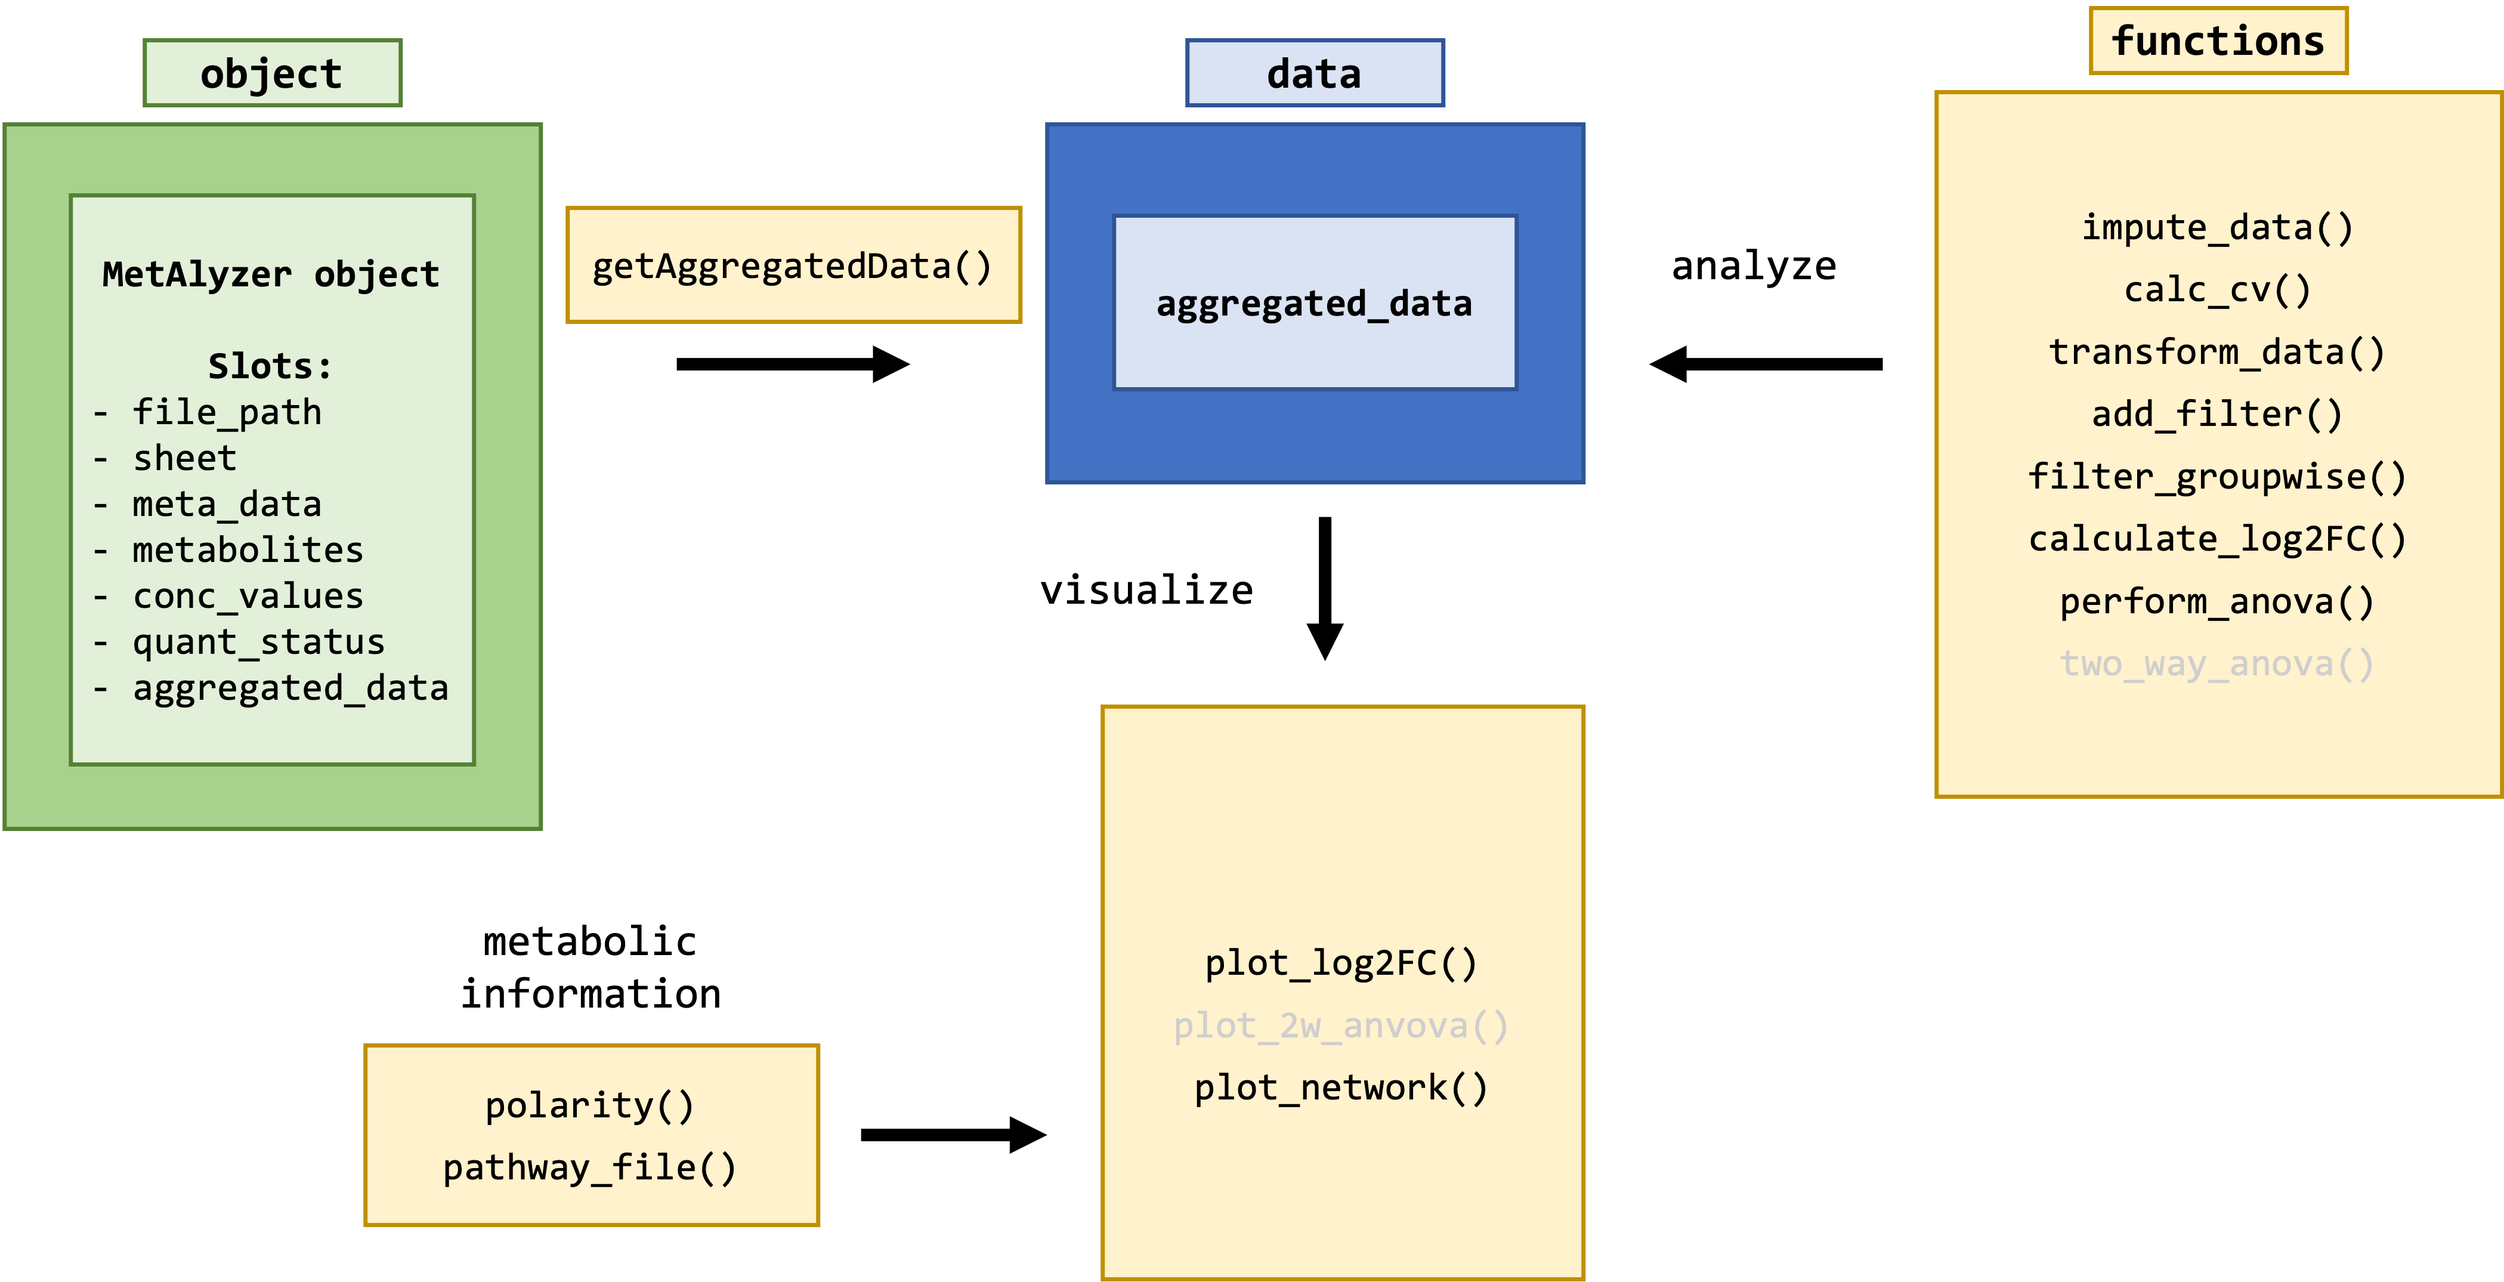
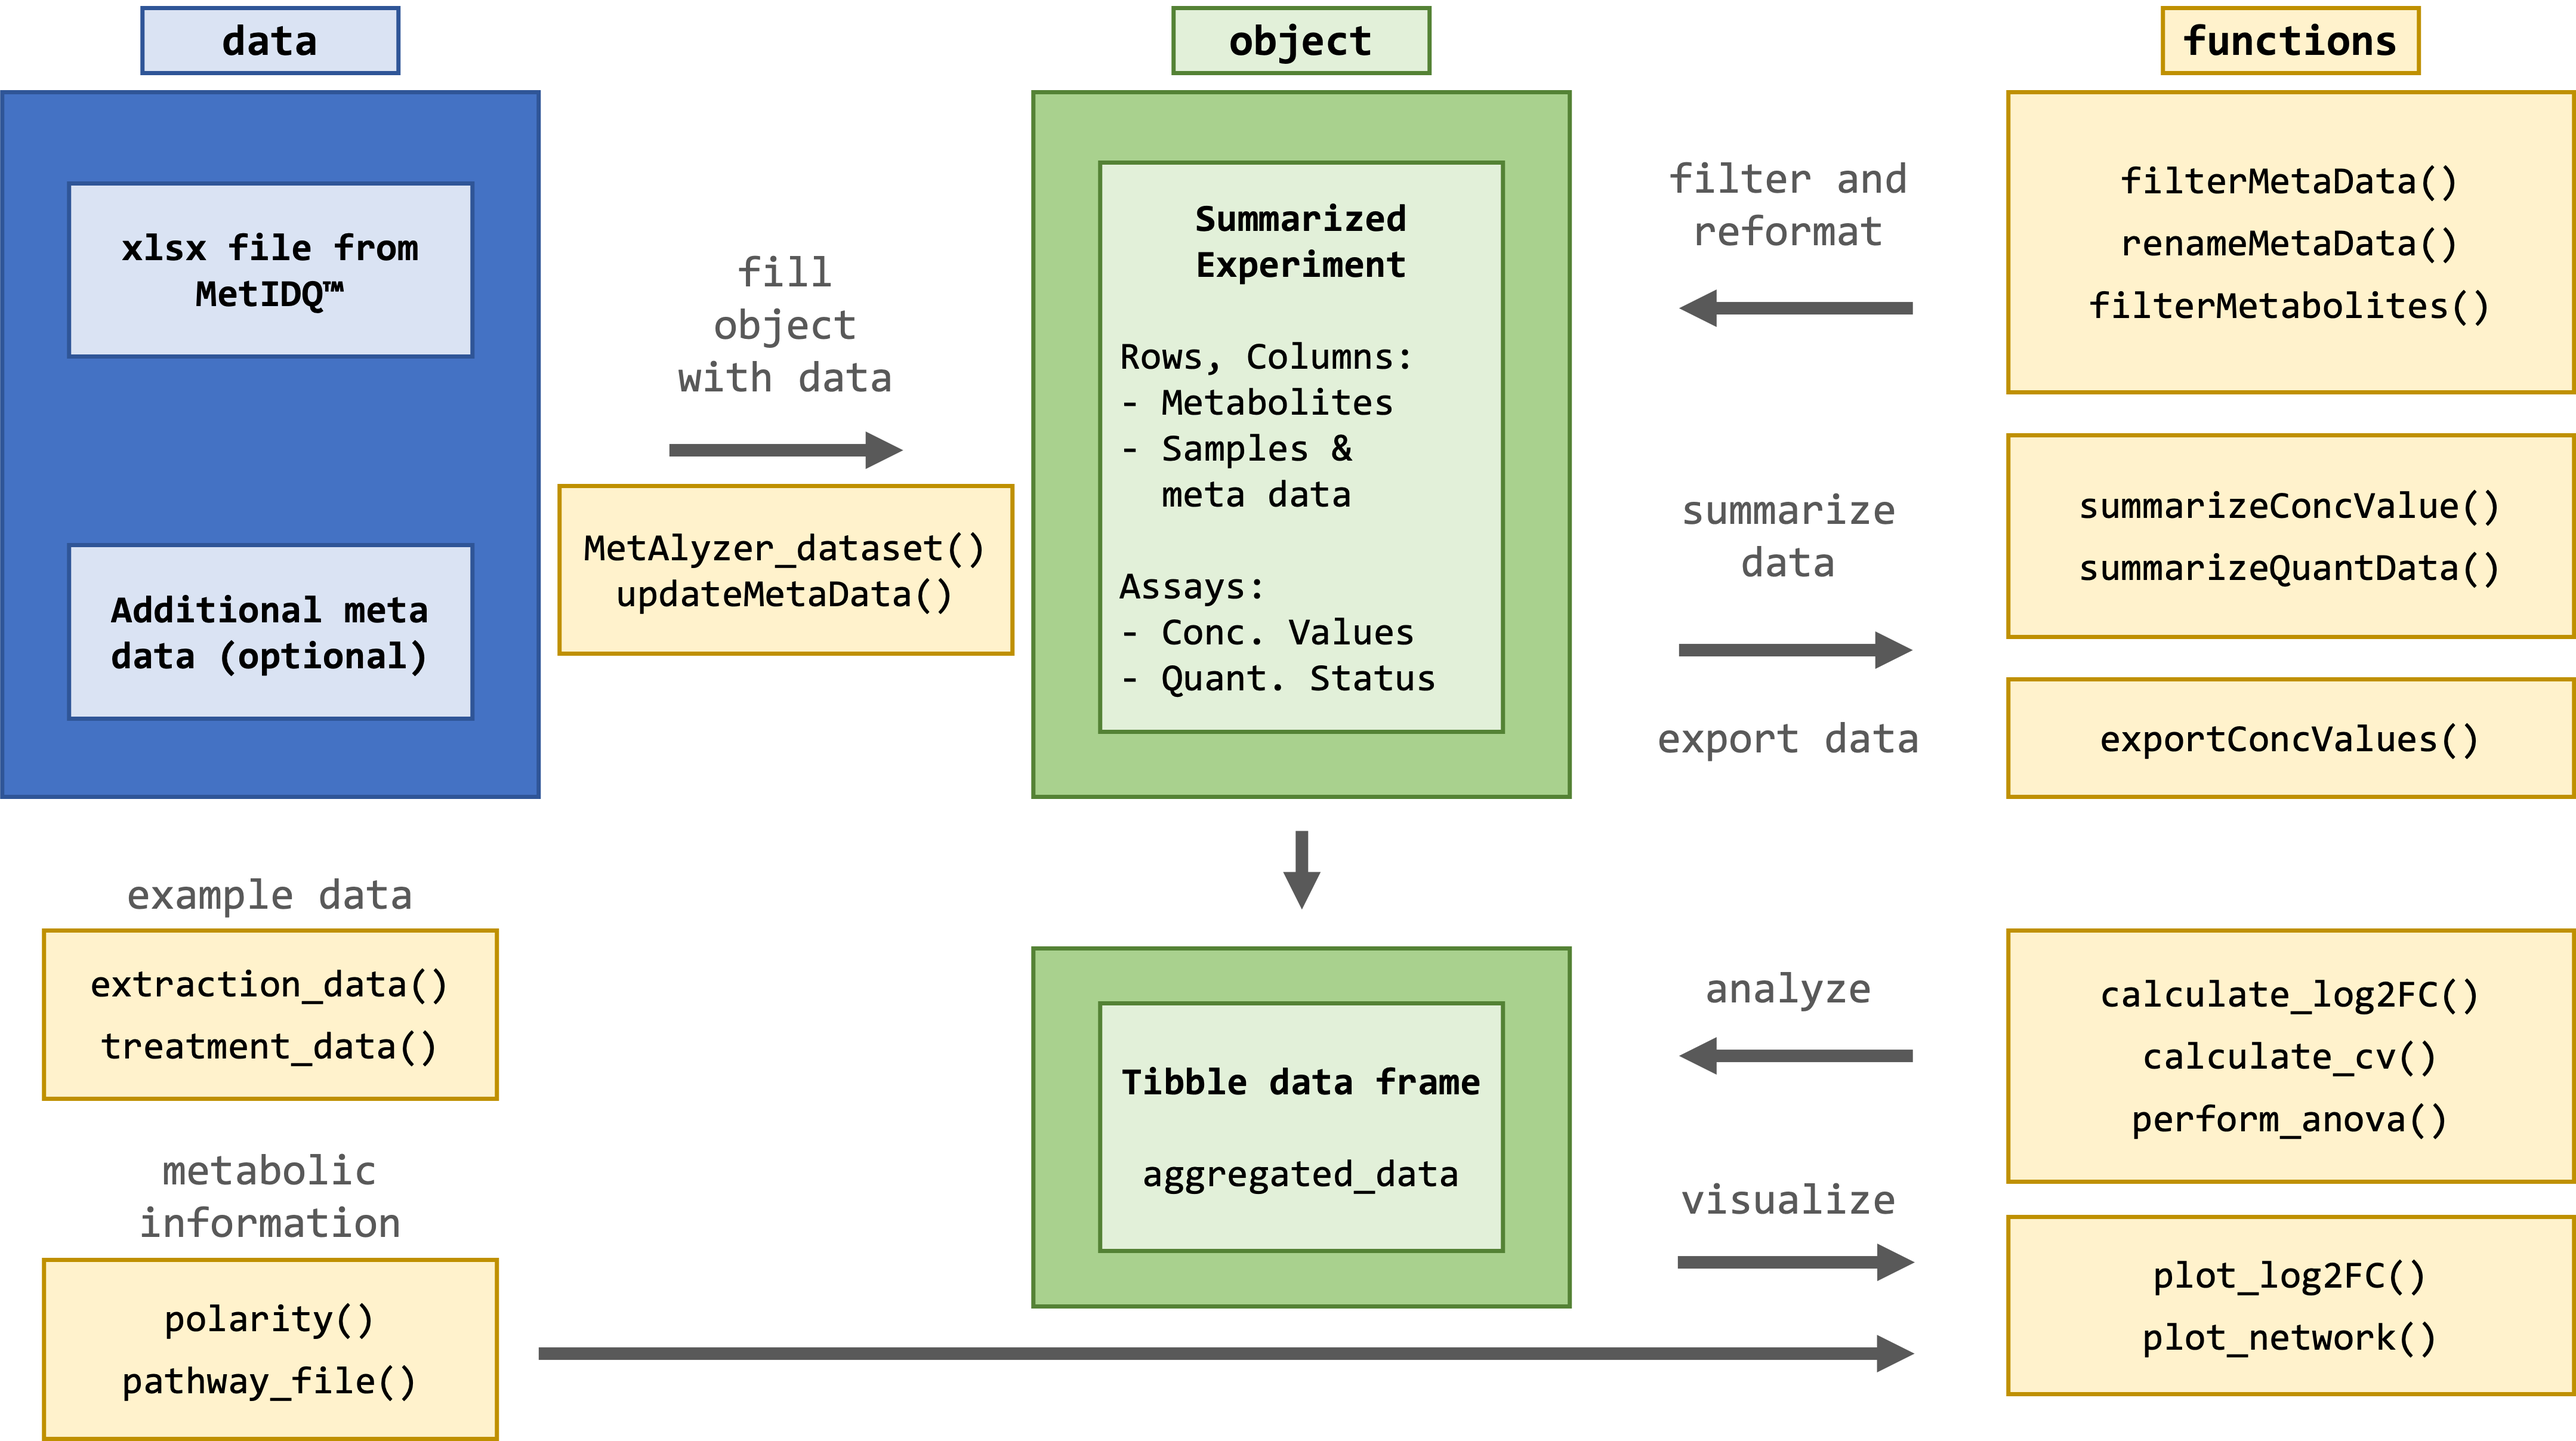
Update class overview for SE

diff --git a/README.md b/README.md
@@ -29,76 +29,69 @@ install_github("nilsmechtel/MetAlyzer")
 
 The package takes metabolomic measurements and the quantification status (e.g. "Valid", "LOQ", "LOD") as ".xlsx" files generated from the MetIDQ&trade; software. Additionally, meta data for each sample can be provided for further analysis.
 
-![MetAlyzer](vignettes/MetAlyzer_class.png)
+![MetAlyzer](vignettes/MetAlyzer_workflow.png)
 
 This is an extract from one of the provided example data sets.
 ![Example_Data](vignettes/screenshot_xlsx.png)
 
 #### Create MetAlyzer object:
 ```r
-> metalyzer <- MetAlyzer_dataset(file_path = extraction_data())
-> show(metalyzer)
--------------------------------------
-File name: extraction_data.xlsx
-Sheet: 1 
-File path: /Library/Frameworks/R.framework/Versions/4.0/Resources/library/MetAlyzer/extdata 
-Metabolites: 862 
-Classes: 24 
-Including metabolism indicators: TRUE 
-Number of samples: 74 
-Columns meta data: "Plate Bar Code"; "Sample Bar Code"; "Sample Type"; "Sample Description"; "Tissue"; "Sample Volume"; "Measurement Time"
-Aggregated data available:  FALSE
--------------------------------------
-```
+> metalyzer_se <- MetAlyzer_dataset(file_path = extraction_data())
 
-#### Show statistics:
-```r
-> na_metabolites <- summariseConcValues(metalyzer)
--------------------------------------
-Quantiles:
+
+ _____ ______   _______  _________  ________  ___           ___    ___ ________  _______   ________
+|\   _ \  _   \|\  ___ \|\___   ___\\   __  \|\  \         |\  \  /  /|\_____  \|\  ___ \ |\   __  \
+\ \  \\\__\ \  \ \   __/\|___ \  \_\ \  \|\  \ \  \        \ \  \/  / /\|___/  /\ \   __/|\ \  \|\  \
+ \ \  \\|__| \  \ \  \_|/__  \ \  \ \ \   __  \ \  \        \ \    / /     /  / /\ \  \_|/_\ \   _  _\
+  \ \  \    \ \  \ \  \_|\ \  \ \  \ \ \  \ \  \ \  \____    \/   / /     /  /_/__\ \  \_|\ \ \  \\  \| 
+   \ \__\    \ \__\ \_______\  \ \__\ \ \__\ \__\ \_______\__/   / /     |\________\ \_______\ \__\\ _\ 
+    \|__|     \|__|\|_______|   \|__|  \|__|\|__|\|_______|\____/ /       \|_______|\|_______|\|__|\|__|
+                                                          \|____|/
+
+
+Info: Reading color code "FFFFCCCC" as "#FFCCCC"
+Info: Reading color code "FF00CD66" as "#00CD66"
+Info: Reading color code "FF6A5ACD" as "#6A5ACD"
+Info: Reading color code "FF87CEEB" as "#87CEEB"
+Info: Reading color code "FFFFFFCC" as "#FFFFCC"
+
+Measured concentration values:
+------------------------------
         0%        25%        50%        75%       100% 
-     0.000      0.028      1.960     22.700 288149.000 
+     0.000      0.017      1.760     21.200 288149.000 
 
-NAs: 4941 (7.96%)
--------------------------------------
-```
+NAs: 5348 (8.38%)
+Note: 'Metabolism Indicators' are frequently NA!
 
-```r
-> status_list <- summariseQuantData(metalyzer)
--------------------------------------
-Valid: 24056 (38.76%)
-LOQ: 5790 (9.33%)
-LOD: 20577 (33.15%)
-Invalid: 11641 (18.76%)
+Measured quantification status:
+-------------------------------
+Valid: 24095 (37.77%)
+LOQ: 5799 (9.09%)
+LOD: 21789 (34.16%)
+Invalid: 12105 (18.98%)
 NAs: 0 (0%)
--------------------------------------
 ```
 
 ### Downstream analysis:
-For further filtering, statistical analysis and plotting, the data can be reformatted and aggregated into a tibble data frame.
-
-![Downstream_Analysis](vignettes/aggregated_data.png)
+For further filtering, statistical analysis and plotting, the data is reformatted and aggregated into a tibble data frame.
 
 ```{r}
-> renameMetaData(metalyzer, Method = `Sample Description`)
-> filterMetaData(metalyzer, !is.na(Tissue))
-> aggregated_data <- aggregateData(metalyzer, Tissue, Method)
-> aggregated_data
-# A tibble: 62,064 × 8
-# Groups:   Tissue, Method, Metabolite [20,688]
-   ID    Tissue    Method Metabolite Class Concentration Status Valid_Replicates
-   <fct> <fct>     <fct>  <fct>      <fct>         <dbl> <fct>  <lgl>           
- 1 9     Drosophi… 1      C0         Acyl…       203     Valid  TRUE            
- 2 10    Drosophi… 1      C0         Acyl…        86.8   Valid  TRUE            
- 3 11    Drosophi… 1      C0         Acyl…       246     Valid  TRUE            
- 4 9     Drosophi… 1      C2         Acyl…        29.5   Valid  TRUE            
- 5 10    Drosophi… 1      C2         Acyl…        15.8   Valid  TRUE            
- 6 11    Drosophi… 1      C2         Acyl…        34.6   Valid  TRUE            
- 7 9     Drosophi… 1      C3         Acyl…        39.2   Valid  TRUE            
- 8 10    Drosophi… 1      C3         Acyl…         9.29  Valid  TRUE            
- 9 11    Drosophi… 1      C3         Acyl…        49.9   Valid  TRUE            
-10 9     Drosophi… 1      C3-DC (C4… Acyl…         0.057 LOD    FALSE           
-# ℹ 62,054 more rows
+> metadata(metalyzer_se)$aggregated_data
+# A tibble: 63,788 × 5
+# Groups:   Metabolite [862]
+   ID    Metabolite Class          Concentration Status
+   <fct> <fct>      <fct>                  <dbl> <fct> 
+ 1 9     C0         Acylcarnitines         203   Valid 
+ 2 10    C0         Acylcarnitines          86.8 Valid 
+ 3 11    C0         Acylcarnitines         246   Valid 
+ 4 12    C0         Acylcarnitines         198   Valid 
+ 5 13    C0         Acylcarnitines         369   Valid 
+ 6 14    C0         Acylcarnitines         127   Valid 
+ 7 15    C0         Acylcarnitines          36.1 Valid 
+ 8 16    C0         Acylcarnitines          40.7 Valid 
+ 9 17    C0         Acylcarnitines         189   Valid 
+10 18    C0         Acylcarnitines          16.1 LOD   
+# ℹ 63,778 more rows
 # ℹ Use `print(n = ...)` to see more rows
 ```
 
